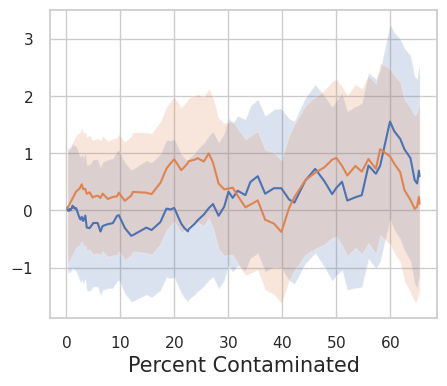
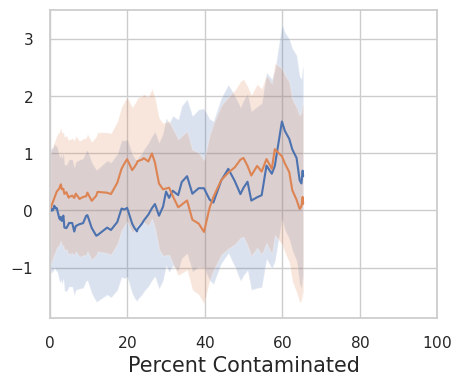
same xlim for contamination plots

diff --git a/results.tex b/results.tex
@@ -173,31 +173,31 @@ Since EPG is model-dependent, we use the 8B and 70B models we trained from scrat
 \begin{figure*}[t]
     \begin{subfigure}[b]{0.20\textwidth}
     \centering
-    \includegraphics[height=2.7cm]{figures/contamination_anli}
+    \includegraphics[height=2.6cm]{figures/contamination_anli}
     \caption{ANLI}
     \end{subfigure}
     \label{fig:cont_anli}
     \begin{subfigure}[b]{0.19\textwidth}
     \centering
-    \includegraphics[height=2.7cm]{figures/contamination_hansnli}
+    \includegraphics[height=2.6cm]{figures/contamination_hansnli}
     \caption{HANS}
     \label{fig:cont_hans}
     \end{subfigure}
     \begin{subfigure}[b]{0.19\textwidth}
     \centering
-    \includegraphics[height=2.7cm]{figures/contamination_mnli_matched}
+    \includegraphics[height=2.6cm]{figures/contamination_mnli_matched}
     \caption{MNLI}
     \label{fig:cont_mnli}
     \end{subfigure}
     \begin{subfigure}[b]{0.19\textwidth}
     \centering
-    \includegraphics[height=2.7cm]{figures/contamination_snli}
+    \includegraphics[height=2.6cm]{figures/contamination_snli}
     \caption{SNLI}
     \label{fig:cont_snli}
     \end{subfigure}
     \begin{subfigure}[b]{0.19\textwidth}
     \centering
-    \includegraphics[height=2.7cm]{figures/contamination_abductivenli}
+    \includegraphics[height=2.6cm]{figures/contamination_abductivenli}
     \caption{$\alpha$NLI}
     \label{fig:cont_alphanli}
     \end{subfigure}
